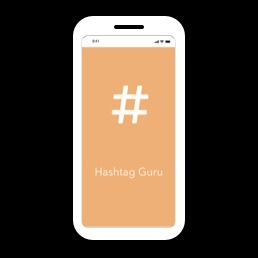
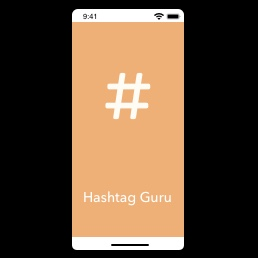
in progress added

Changed region(s): [[0.2791, 0.031, 0.7442, 0.9922], [0.4031, 0.2791, 0.5891, 0.4961]]

diff --git a/honeywell.html b/honeywell.html
@@ -192,6 +192,20 @@ http://miradontsoa.com
               Interactive Prototype
             </a>
           </li>
+
+          <li class="nav-item">
+            <a href="#fuf">
+              <i class="icon ion-ios-information-outline"></i>
+              Design Features & User Flows
+            </a>
+          </li>
+
+          <li class="nav-item">
+            <a href="#pr">
+              <i class="icon ion-ios-information-outline"></i>
+             Process
+            </a>
+          </li>
         </ul>
       </nav>
       <!-- End of sidebar nav menu -->
@@ -294,19 +308,17 @@ http://miradontsoa.com
                     <br>
                     <br>
 
-                    <h1 id="uf">DESIGN FEATURES & USER FLOWS</h1>
+                    <h1 id="fuf">DESIGN FEATURES & USER FLOWS</h1>
                     <br>
                     <div>
                       <img style='height: 100%; width: 100%; object-fit: contain' src="img/Honeywell/honeywell6.jpg"
                         alt="" />
-                      <iframe height="600" src="https://xd.adobe.com/embed/3e974090-66ab-4152-4b0a-42b7aa561e14-48a6/"
-                        style='width:101%; object-fit: contain' frameborder="0" allowfullscreen  ></iframe>
+                      <iframe height="600" src="https://xd.adobe.com/embed/3e974090-66ab-4152-4b0a-42b7aa561e14-48a6/"                         style='width:101%; object-fit: contain' frameborder="0" allowfullscreen  ></iframe>
                       <br>
                       <br>
                       <img style='height: 100%; width: 100%; object-fit: contain' src="img/Honeywell/honeywell7.jpg"
                         alt="" />
-                      <iframe height="600" src="https://xd.adobe.com/embed/3e974090-66ab-4152-4b0a-42b7aa561e14-48a6/screen/4b260001-e82d-4532-b25e-79b061fee0b6/Web-1920-7/"
-                        style='width:100%; object-fit: contain' frameborder="0" allowfullscreen  ></iframe>
+                      <iframe height="600" src="https://xd.adobe.com/embed/3e974090-66ab-4152-4b0a-42b7aa561e14-48a6/screen/4b260001-e82d-4532-b25e-79b061fee0b6/Web-1920-7/"                         style='width:100%; object-fit: contain' frameborder="0" allowfullscreen  ></iframe>
                       <br>
                       <br>
                       <img style='height: 100%; width: 100%; object-fit: contain' src="img/Honeywell/honeywell8.jpg"
@@ -337,6 +349,17 @@ http://miradontsoa.com
                     </div>
                     <br>
                     <br>
+                    <br>
+
+                    <h1 id="pr">PROCESS</h1>
+                    <br>
+                   
+                    <iframe height="300" src="https://giphy.com/embed/5WILqPq29TyIkVCSej" style='width:100%; object-fit: contain' frameborder="0" allowfullscreen></iframe>
+                    <p class="small" style="text-align:center; font-size: 10px;"><a href="https://giphy.com/gifs/lolyinthesky-cat-typing-funnycat-5WILqPq29TyIkVCSej">via GIPHY</a></p>
+                    <div class="img-1">
+                      <img style='height: 100%; width: 100%; object-fit: contain' src="img/Honeywell/honeywell13.jpg"
+                        alt="" />
+                    </div>
 
                   </div>
                 </div>

diff --git a/index.html b/index.html
@@ -318,7 +318,7 @@
                   <div class="images text-center">
                     <div id="hashtag" class="img-avatar-beta">
                       <div class="img-1 shadow"> <a href="hashtag.html"> <img id="hashtagimage"
-                            class="img container-rel" src="./img/HashtagGuru/h0.png" alt="HashtagGuru"
+                            class="img container-rel" src="./img/HashtagGuru/h0_A.jpg" alt="HashtagGuru"
                             style="margin-bottom: 10px">
                           <div id="hashtagtext" style="opacity: 0;" class="img-text">HCI, UX Design</div>
                         </a> </div>
@@ -452,7 +452,7 @@
                   <div class="images text-center">
                     <div id="hashtag_1" class="img-avatar-beta">
                       <div class="img-1 shadow"> <a href="hashtag.html"> <img id="hashtag_1image"
-                            class="img container-rel" src="./img/HashtagGuru/h0.png" alt="HashtagGuru"
+                            class="img container-rel" src="./img/HashtagGuru/h0_A.jpg" alt="HashtagGuru"
                             style="margin-bottom: 10px">
                           <div id="hashtag_1text" style="opacity: 0;" class="img-text">HCI, UX Design</div>
                         </a> </div>
